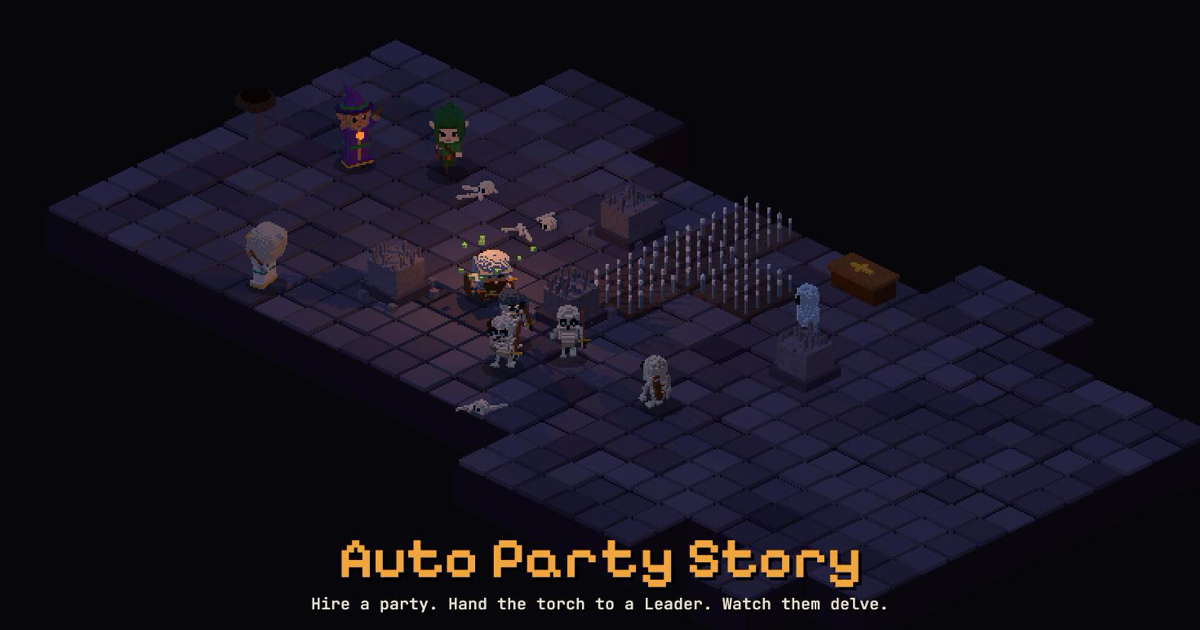
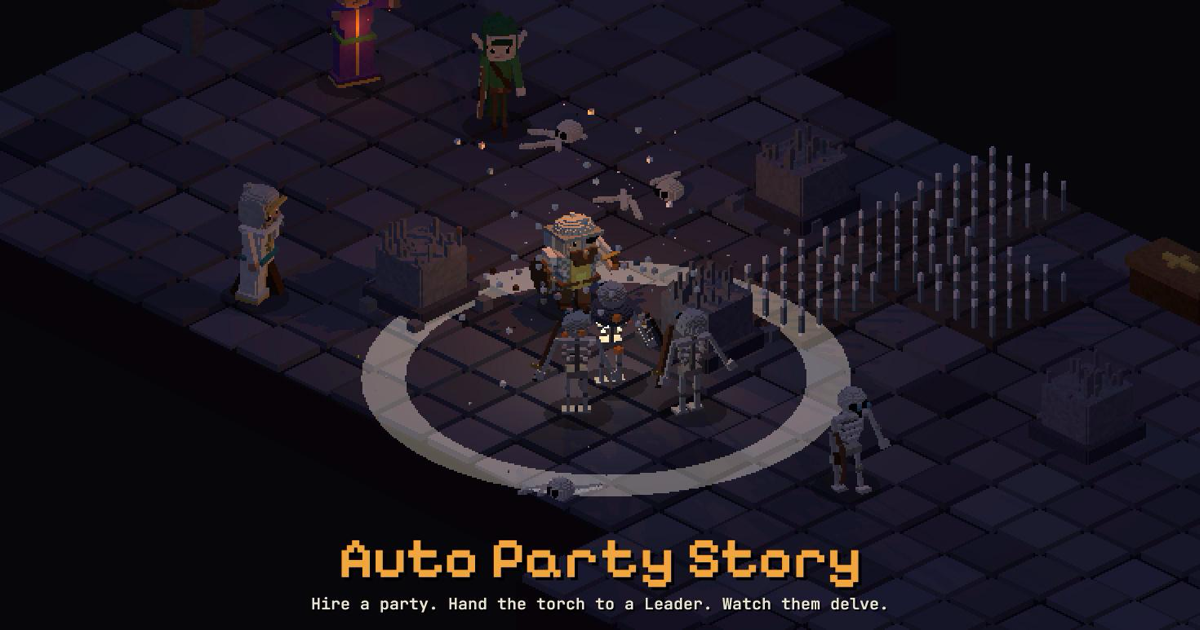
Wipe-averse Leaders, campaign tier choice by the party going, new preview
Experienced Leaders now weigh losing a fight at the whole party's value,
never value a hero below the cost of replacing them, and read deeper
floors as harder; a depth order accepts risk measured in heroes. Master
wipes fall from about 20% to 3-6%. The simulated player picks tiers by
the party it actually sends, ending long farming stalls, and the XP
curve eases. The tuner gains Master wipe and Seasoned exploration
targets; the campaign log records why runs end. Refreshes the arcade
preview with the new art.

diff --git a/src/sim/leader.ts b/src/sim/leader.ts
@@ -1,6 +1,6 @@
 // The Leader's run decisions (spec 07): perception with noise, the ordered decision tree,
 // route choice on the fogged map, and everything the Council view needs to show the call.
-import { BASELINES, LEADERSHIP, RACES, type BaselineRow, type LeaderRankDef, type TemperamentDef } from './data';
+import { BASELINES, LEADERSHIP, RACES, TIERS, type BaselineRow, type LeaderRankDef, type TemperamentDef } from './data';
 import { lootValue } from './loot';
 import type { FloorMap, NodeType } from './delve';
 import type { Rng } from './rng';
@@ -46,6 +46,12 @@ export interface PartyState {
 
 const FIGHT_ROOM: Partial<Record<NodeType | '?', string>> = { fight: 'normal', elite: 'elite', horde: 'horde', boss: 'boss', '?': 'normal' };
 
+/** What a Leader puts on losing one hero for good: their training, with a floor for the cost of replacing them. */
+function heroValueOf(s: PartyState): number {
+  const ev = LEADERSHIP.ev;
+  return Math.max(ev.heroValueFloor, ev.heroValuePerLevel * (s.heroLevel ?? 2));
+}
+
 /** Baseline for a room at a party HP level, interpolated between measured rows. */
 function baseline(tier: string, type: NodeType | '?', hp: number): BaselineRow {
   const room = FIGHT_ROOM[type];
@@ -71,14 +77,18 @@ function roomEV(L: LeaderProfile, s: PartyState, map: FloorMap, id: number, hp: 
   let b = baseline(s.tierId ?? 'I', type, hp);
   const opt = ev.optimism[L.rank.id] ?? 0;
   if (opt) b = { ...b, win: b.win + (1 - b.win) * opt, deaths: b.deaths * (1 - opt) };
-  // the table is measured at the tier's hero level; each level of advantage shrinks the risk
-  const gap = Math.max(-3, Math.min(8, (s.partyLevel ?? s.heroLevel ?? 2) - (s.heroLevel ?? 2)));
+  // the table is measured at the tier's hero level against monsters from its first floor: each level of
+  // advantage shrinks the risk, and each floor deeper (monsters a level stronger) grows it
+  const t = TIERS[s.tierId ?? 'I'];
+  const deeper = t ? Math.max(0, s.floor - (t.floors[0] + 1)) : 0;
+  const gap = Math.max(-6, Math.min(8, (s.partyLevel ?? s.heroLevel ?? 2) - (s.heroLevel ?? 2) - deeper));
   if (gap) { const k = Math.pow(ev.levelFactor, gap); b = { ...b, win: 1 - (1 - b.win) * k, deaths: Math.min(1, b.deaths * k) }; }
-  const heroValue = ev.heroValuePerLevel * (s.heroLevel ?? 2);
+  const heroValue = heroValueOf(s);
   const heroes = s.heroes ?? 3;
   // with a full pack, new loot is only worth the upgrades it brings
   const gain = lootValue(type, s.floor) * (0.6 + greed) * b.win * (s.pack >= 1 ? ev.fullPackShare : 1);
-  const loss = (1 - b.win) * (s.packRaw ?? 0) + b.deaths * heroes * heroValue + (n.named && n.seen ? heroValue * heroes * 0.5 : 0);
+  // losing the fight can end the whole party: experienced Leaders weigh that beyond its average cost
+  const loss = (1 - b.win) * ((s.packRaw ?? 0) + ev.wipeAversion * heroes * heroValue) + b.deaths * heroes * heroValue + (n.named && n.seen ? heroValue * heroes * 0.5 : 0);
   let value = gain - loss;
   if (type === 'campfire') value += (1 - hp) * heroValue * 0.3;
   if (depth > 0 && n.known) {
@@ -140,7 +150,7 @@ export function decide(L: LeaderProfile, truth: PartyState, map: FloorMap, at: n
     if (planner) {
       // Seasoned+ Leaders weigh each room by expected value, as well as their rank lets them read it
       // misjudgement scales with what's at stake: the party's lives
-      const stake = LEADERSHIP.ev.heroValuePerLevel * (truth.heroLevel ?? 2) * (truth.heroes ?? 3);
+      const stake = heroValueOf(truth) * (truth.heroes ?? 3);
       const score = (roomEV(L, truth, map, id, read.hp, depth, greed) + rank.noise * stake * (rng.next() - 0.5) * 2) / 100;
       return { node: id, type, score, pref: 0 };
     }
@@ -195,7 +205,8 @@ export function decide(L: LeaderProfile, truth: PartyState, map: FloorMap, at: n
   if (allowed(4) && planner) {
     checks[4] = 'pass';
     const best = Math.max(...options.map((o) => o.score)) * 100;
-    const marginEv = LEADERSHIP.ev.doctrineMargin[doc] ?? 0;
+    // a standing order to push accepts real risk, measured in heroes rather than coin
+    const marginEv = (LEADERSHIP.ev.doctrineMargin[doc] ?? 0) - (LEADERSHIP.ev.doctrineHeroRisk[doc] ?? 0) * heroValueOf(truth);
     if (best < marginEv - push * 40) return result('retreat', 4, `Not worth it: the best room ahead is worth ${Math.round(best)} against what we'd risk.`, 0.65);
   } else if (allowed(4)) {
     checks[4] = 'pass';

diff --git a/src/sim/campaign.ts b/src/sim/campaign.ts
@@ -33,7 +33,7 @@ export interface CampaignResult {
   /** [hours, average party level, tier index] after each run. */
   curve: [number, number, number][];
   /** One row per run: tier played, party's average level, outcome, heroes lost, floors reached. */
-  log: { tier: string; level: number; outcome: string; died: number; floors: number }[];
+  log: { tier: string; level: number; outcome: string; died: number; floors: number; leadership: number; doctrine: string; ended?: string }[];
   /** Runs needed after a wipe until a party at the same tier won a fight again (−1: never). */
   recoveryRuns: number[];
 }
@@ -73,10 +73,12 @@ export function runCampaign(options: CampaignOptions): CampaignResult {
       const h = hire(needs, Math.max(1, band - 2), hours);
       roster.push(h); living.push(h); recruits++;
     }
-    // pick the tier: the highest unlocked one the roster is ready for (at its hero level)
+    // pick the tier: the highest unlocked one that the party actually going is ready for
+    // (judging by the whole roster kept strong heroes farming a tier that no longer taught them anything)
     const avg = (hs: RosterHero[]) => hs.reduce((s, h) => s + h.hero.level, 0) / Math.max(1, hs.length);
+    const strongest = (n: number) => living.filter((h) => h.benched <= 0).sort((a, b) => b.hero.level - a.hero.level).slice(0, n);
     let ti = unlocked;
-    while (ti > 0 && avg(living.filter((h) => !h.benched)) < TIERS[TIER_IDS[ti]].heroLevel - opt.tierSlack) ti--;
+    while (ti > 0 && avg(strongest(TIERS[TIER_IDS[ti]].partySize)) < TIERS[TIER_IDS[ti]].heroLevel - opt.tierSlack) ti--;
     const tier = TIER_IDS[ti];
     const size = TIERS[tier].partySize;
     // a balanced party: a healer if there is one, then the strongest of the rest
@@ -93,7 +95,8 @@ export function runCampaign(options: CampaignOptions): CampaignResult {
     const r = runRun({ seed: opt.seed * 1000 + run, tier, party: party.map((h) => ({ ...h.hero, gearScore: gear })), leaderId: leader.hero.id, policy: opt.policy, doctrine, startFloor: doctrine === 'depth' ? waystone[tier] : undefined });
     outcomes[r.outcome]++;
     if (r.outcome !== 'wipe') waystone[tier] = Math.max(waystone[tier] ?? 0, r.floorsReached);
-    log.push({ tier, level: +avg(party).toFixed(1), outcome: r.outcome, died: r.died.length, floors: r.floorsReached });
+    const lastCall = r.decisions.filter((d) => d.decision === 'retreat').pop();
+    log.push({ tier, level: +avg(party).toFixed(1), outcome: r.outcome, died: r.died.length, floors: r.floorsReached, leadership: leader.hero.leadership, doctrine, ended: r.outcome === 'retreat' ? lastCall?.reason : undefined });
     hours += (r.fightSeconds / 60 + r.rooms * 0.4 + 2) / 60;
     heroRuns += party.length;
     const after = applyRun(roster, party, leader, r, tier);

diff --git a/tools/metrics.ts b/tools/metrics.ts
@@ -28,14 +28,14 @@ export function fightOnce(classes: string[], tier: string, room: RoomType, seed:
 }
 
 export function runStats(tier: string, lname: string, policy: RunPolicy, S: number, l = LEADERS[lname], from = 0) {
-  let died = 0, heroes = 0, banked = 0, wipes = 0, good = 0, calls = 0, warns = 0, turnBack = 0, thisWay = 0, embers = 0, fellBack = 0, raresK = 0, raresE = 0;
+  let rooms = 0, died = 0, heroes = 0, banked = 0, wipes = 0, good = 0, calls = 0, warns = 0, turnBack = 0, thisWay = 0, embers = 0, fellBack = 0, raresK = 0, raresE = 0;
   for (let s = from; s < from + S; s++) {
     const p = party(PRESETS.starter, tier);
     p[0] = { ...p[0], raceId: l.raceId, leadership: l.leadership };
     const r = runRun({ seed: s, tier, party: p, leaderId: p[0].id, policy });
-    died += r.died.length; heroes += p.length; banked += r.banked; if (r.outcome === 'wipe') wipes++;
+    rooms += r.rooms; died += r.died.length; heroes += p.length; banked += r.banked; if (r.outcome === 'wipe') wipes++;
     for (const d of r.decisions) if (d.goodCall !== undefined) { calls++; if (d.goodCall) good++; }
     warns += r.warnings; if (r.turnBackUsed) turnBack++; thisWay += r.thisWayUsed; embers += r.embersSpent; fellBack += r.fellBack; raresK += r.rares.killed; raresE += r.rares.escaped;
   }
-  return { deathsPerHero: died / heroes, banked: banked / S, bankedPerDeath: banked / Math.max(1, died), wipe: wipes / S, goodCalls: good / Math.max(1, calls), warnings: warns / S, turnBack: turnBack / S, thisWay: thisWay / S, embers: embers / S, fellBack: fellBack / S, rares: `${raresK}/${raresE}` };
+  return { rooms: rooms / S, deathsPerHero: died / heroes, banked: banked / S, bankedPerDeath: banked / Math.max(1, died), wipe: wipes / S, goodCalls: good / Math.max(1, calls), warnings: warns / S, turnBack: turnBack / S, thisWay: thisWay / S, embers: embers / S, fellBack: fellBack / S, rares: `${raresK}/${raresE}` };
 }

diff --git a/tools/tune.ts b/tools/tune.ts
@@ -69,6 +69,9 @@ for (const t of TIER_LIST) {
   BANDS.push({ key: `${t} boss win`, band: TARGETS.bossWin as [number, number], scale: 0.08, weight: 1 });
   BANDS.push({ key: `${t} seasoned deaths/hero`, band: TARGETS.deathsPerHeroPerRun as [number, number], scale: 0.03, weight: 1.5 });
   BANDS.push({ key: `${t} seasoned wipe`, band: [0, TARGETS.wipePerRun], scale: 0.04, weight: 1 });
+  // the best Leaders are bold but not reckless, and nobody experienced turns home after two rooms
+  BANDS.push({ key: `${t} master wipe`, band: [0, 0.08], scale: 0.04, weight: 1.5 });
+  BANDS.push({ key: `${t} seasoned rooms`, band: [4, 99], scale: 1, weight: 1 });
   // a new player's novice Leader should lose some runs, not most of them
   BANDS.push({ key: `${t} novice wipe`, band: [0, 0.3], scale: 0.05, weight: 1 });
   // rank must pay: Master banks at least 10% more than Seasoned, and novices die at least twice as often as Masters
@@ -92,6 +95,8 @@ function measure(seeds: number, from = 0, tiers = TIER_LIST): Metrics {
     m[`${t} seasoned deaths/hero`] = ladder.seasoned.deathsPerHero;
     m[`${t} seasoned wipe`] = ladder.seasoned.wipe;
     m[`${t} novice wipe`] = ladder.novice.wipe;
+    m[`${t} master wipe`] = ladder.master.wipe;
+    m[`${t} seasoned rooms`] = ladder.seasoned.rooms;
     m[`${t} master/seasoned banked`] = ladder.master.banked / Math.max(1, ladder.seasoned.banked);
     m[`${t} master/novice banked`] = ladder.master.banked / Math.max(1, ladder.novice.banked);
     m[`${t} novice/master deaths`] = ladder.novice.deathsPerHero / Math.max(0.005, ladder.master.deathsPerHero);

diff --git a/src/sim/data.ts b/src/sim/data.ts
@@ -152,7 +152,7 @@ export const LEADERSHIP = leadershipJson as unknown as {
   expectedHpLossPerFight: number;
   streakThreshold: number;
   namedSignPenalty: number;
-  ev: { heroValuePerLevel: number; levelFactor: number; fullPackShare: number; lookahead: Record<string, number>; optimism: Record<string, number>; discount: number; dressing: number; doctrineMargin: Record<string, number> };
+  ev: { heroValuePerLevel: number; heroValueFloor: number; wipeAversion: number; levelFactor: number; fullPackShare: number; lookahead: Record<string, number>; optimism: Record<string, number>; discount: number; dressing: number; doctrineMargin: Record<string, number>; doctrineHeroRisk: Record<string, number> };
 };
 
 export interface BaselineRow { hp: number; win: number; hpCost: number; deaths: number }
